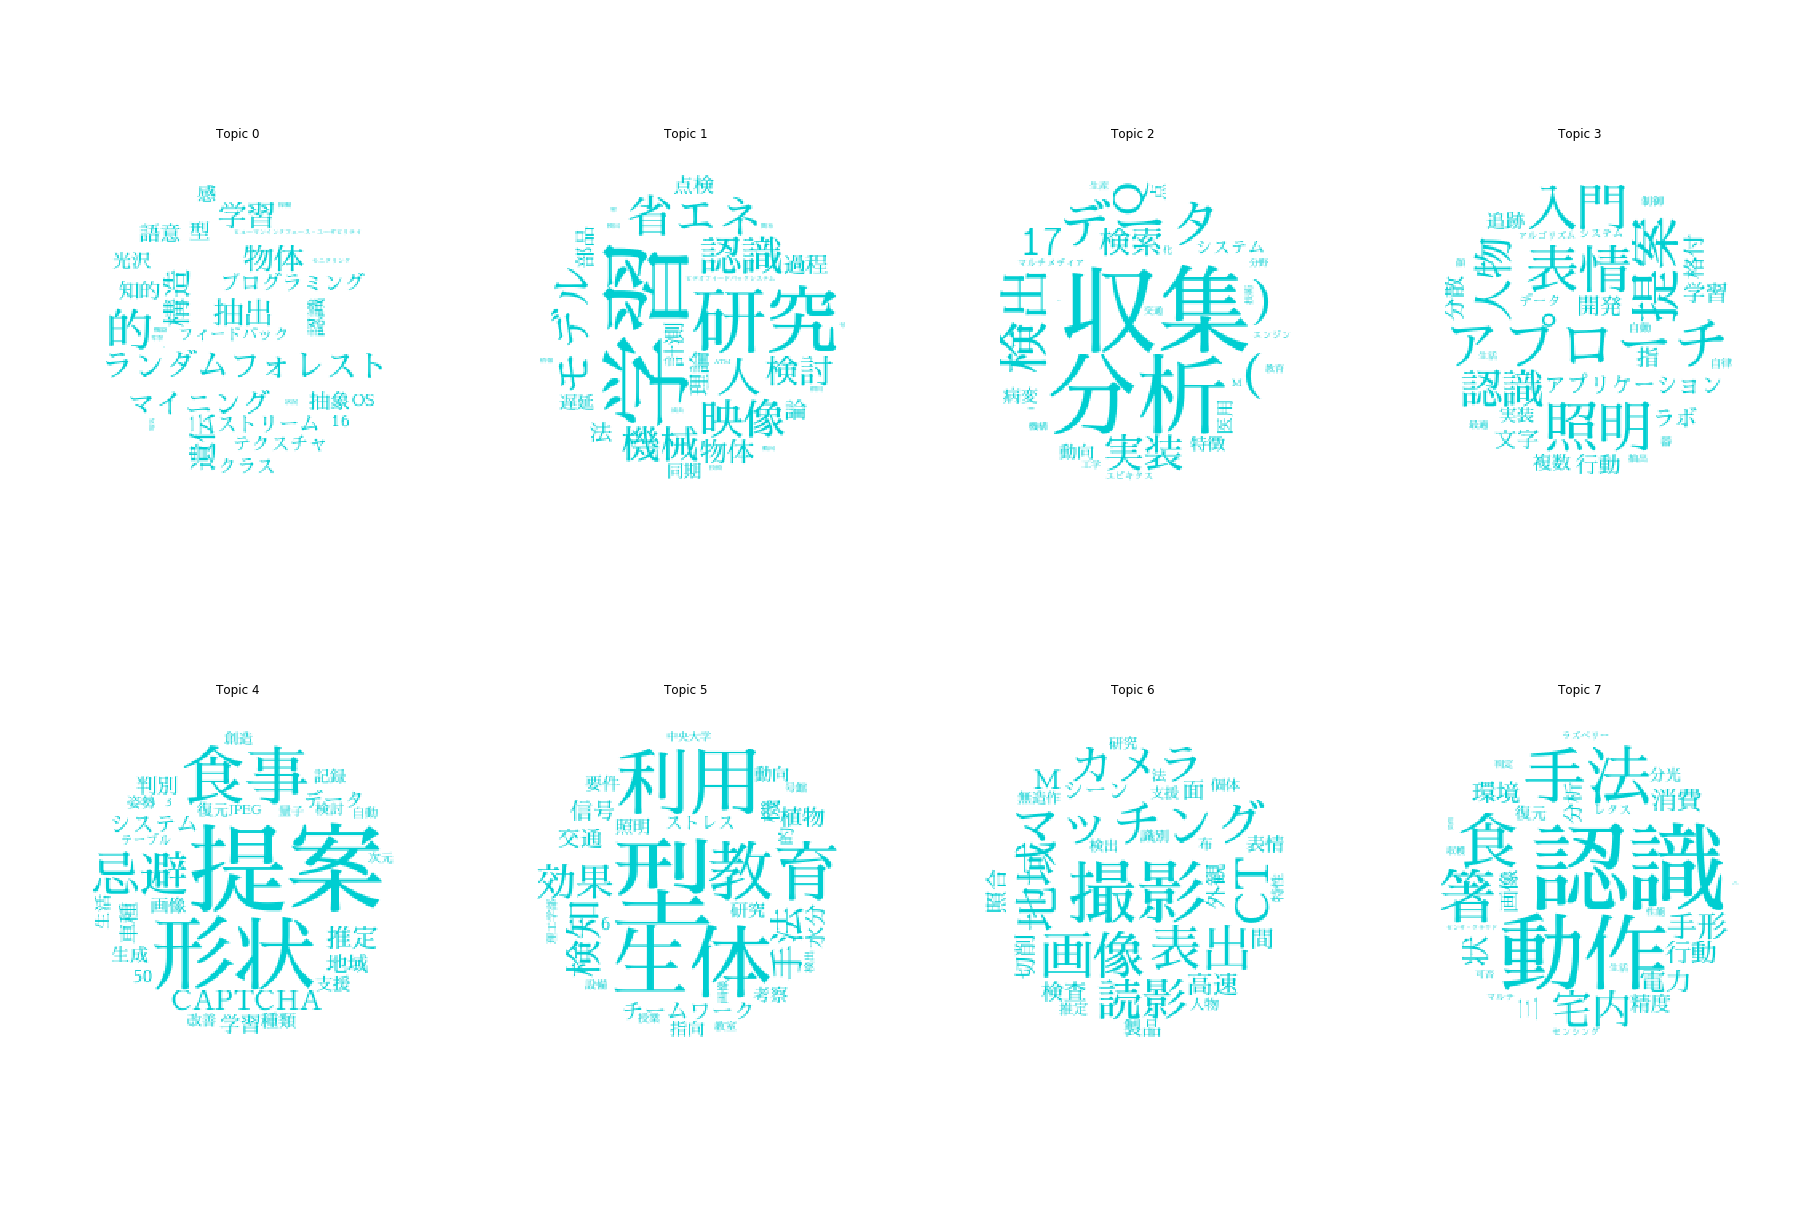
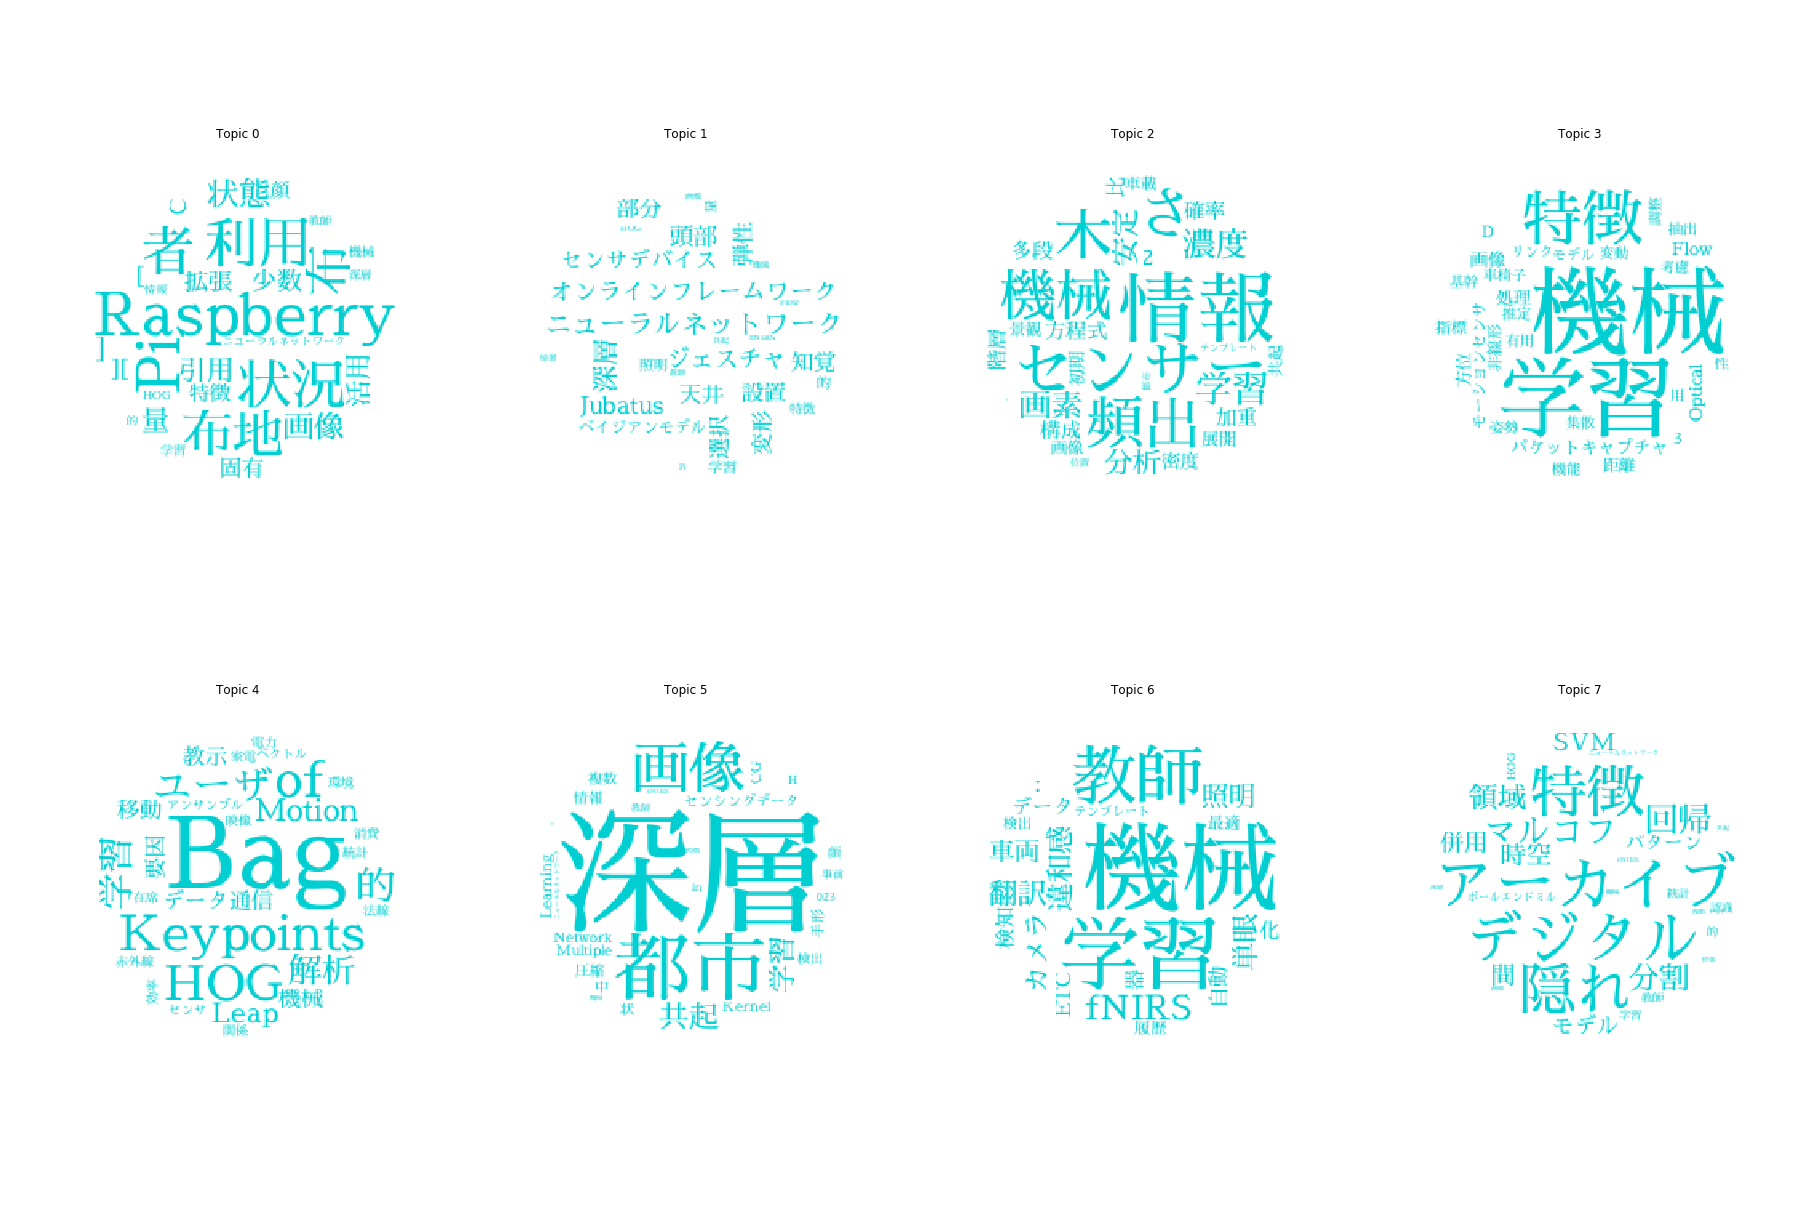
reviewed

diff --git a/Googlescholar/LDA.py b/Googlescholar/LDA.py
@@ -41,7 +41,8 @@ if __name__ == '__main__':
     progress_s_time = time.time()
     not_exist_mkdir("./tmp")
     search_results_df=pd.read_csv("Google_Scholar.csv",index_col=0)
-    docs = search_results_df["achivementlist"]
+    #docs = search_results_df["achivementlist"]
+    docs = search_results_df["methodlist"].fillna("")
     
     texts=list(map(splitdfwords,docs))
     dictionary = corpora.Dictionary(texts)
